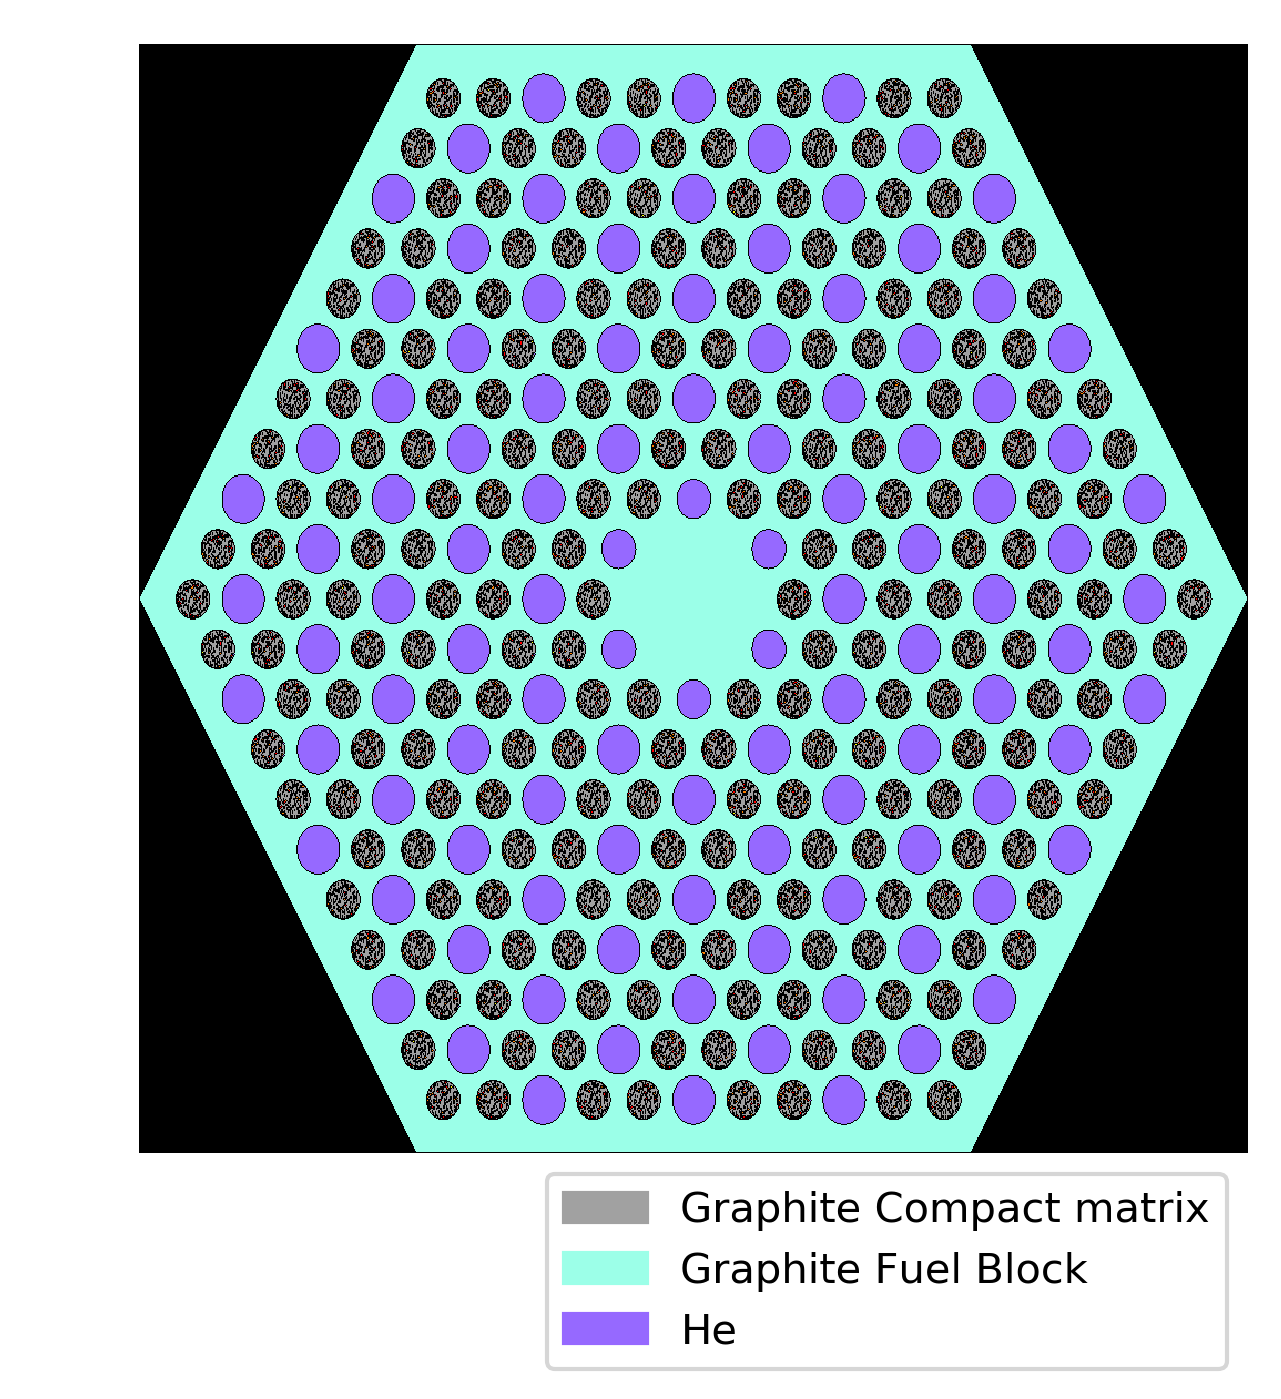
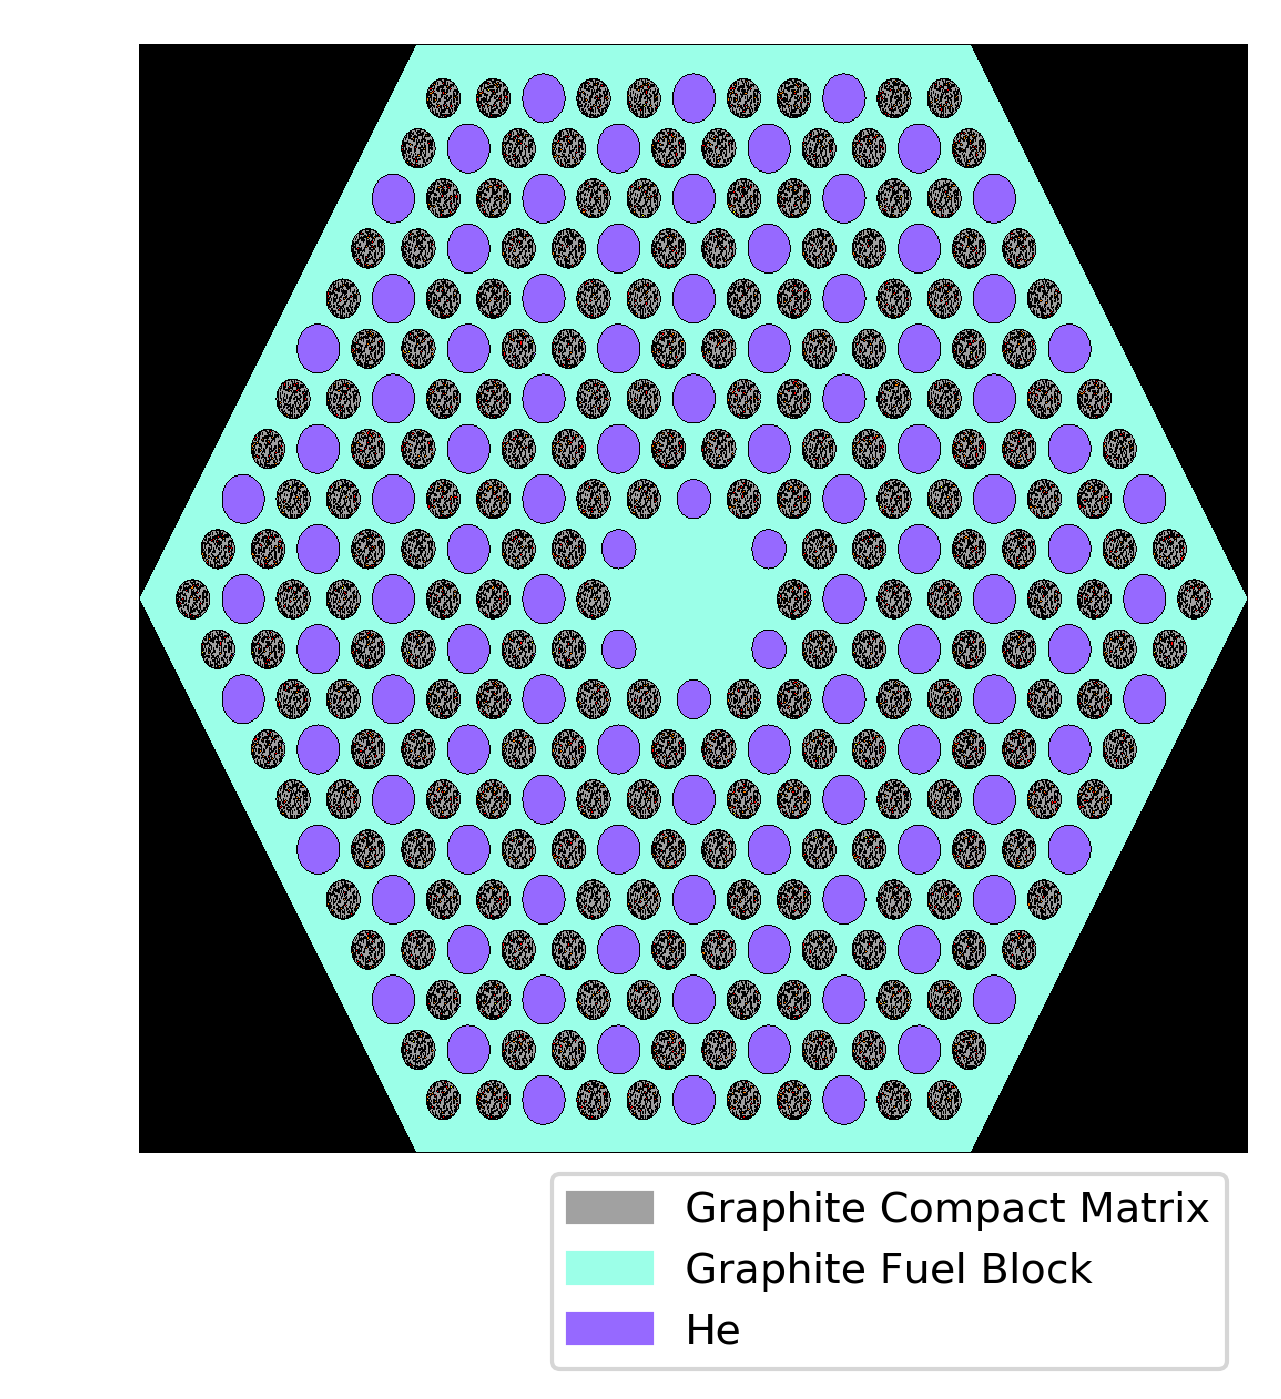
fix labels

Changed region(s): [[0.5308, 0.8299, 0.8743, 0.9836], [0.4059, 0.8299, 0.4372, 0.9836]]

diff --git a/auxiliary.py b/auxiliary.py
@@ -9,7 +9,7 @@ buffer = mpatches.Patch(color=(1., 0.5, 0.), label='Porous Carbon')
 pyc = mpatches.Patch(color=(1., 0., 0.), label='PyC')
 sic = mpatches.Patch(color=(0.6, 0.3, 0.), label='SiC')
 matrix = mpatches.Patch(color=(0.63, 0.63, 0.63),
-                        label='Graphite Compact matrix')
+                        label='Graphite Compact Matrix')
 block = mpatches.Patch(color=(0.61, 1., 0.91), label='Graphite Fuel Block')
 helium = mpatches.Patch(color=(0.59, 0.41, 1.), label='He')
 
